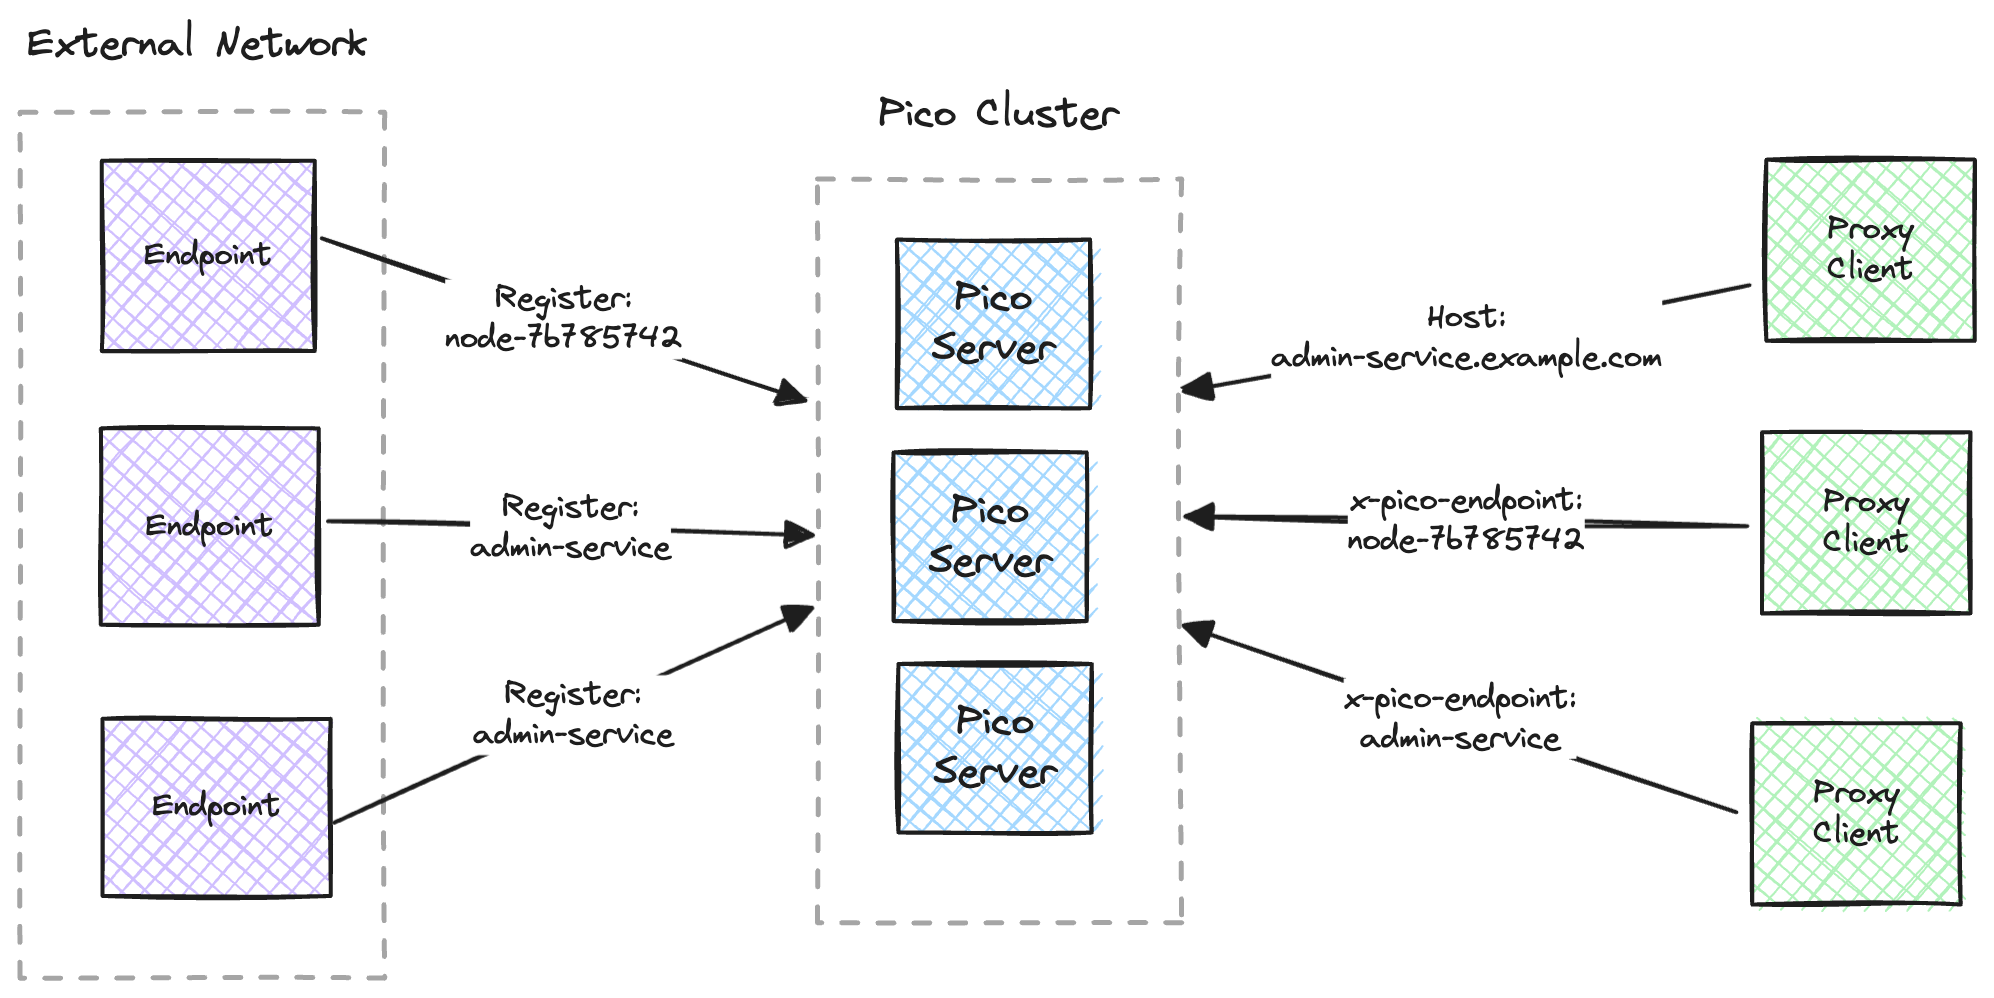
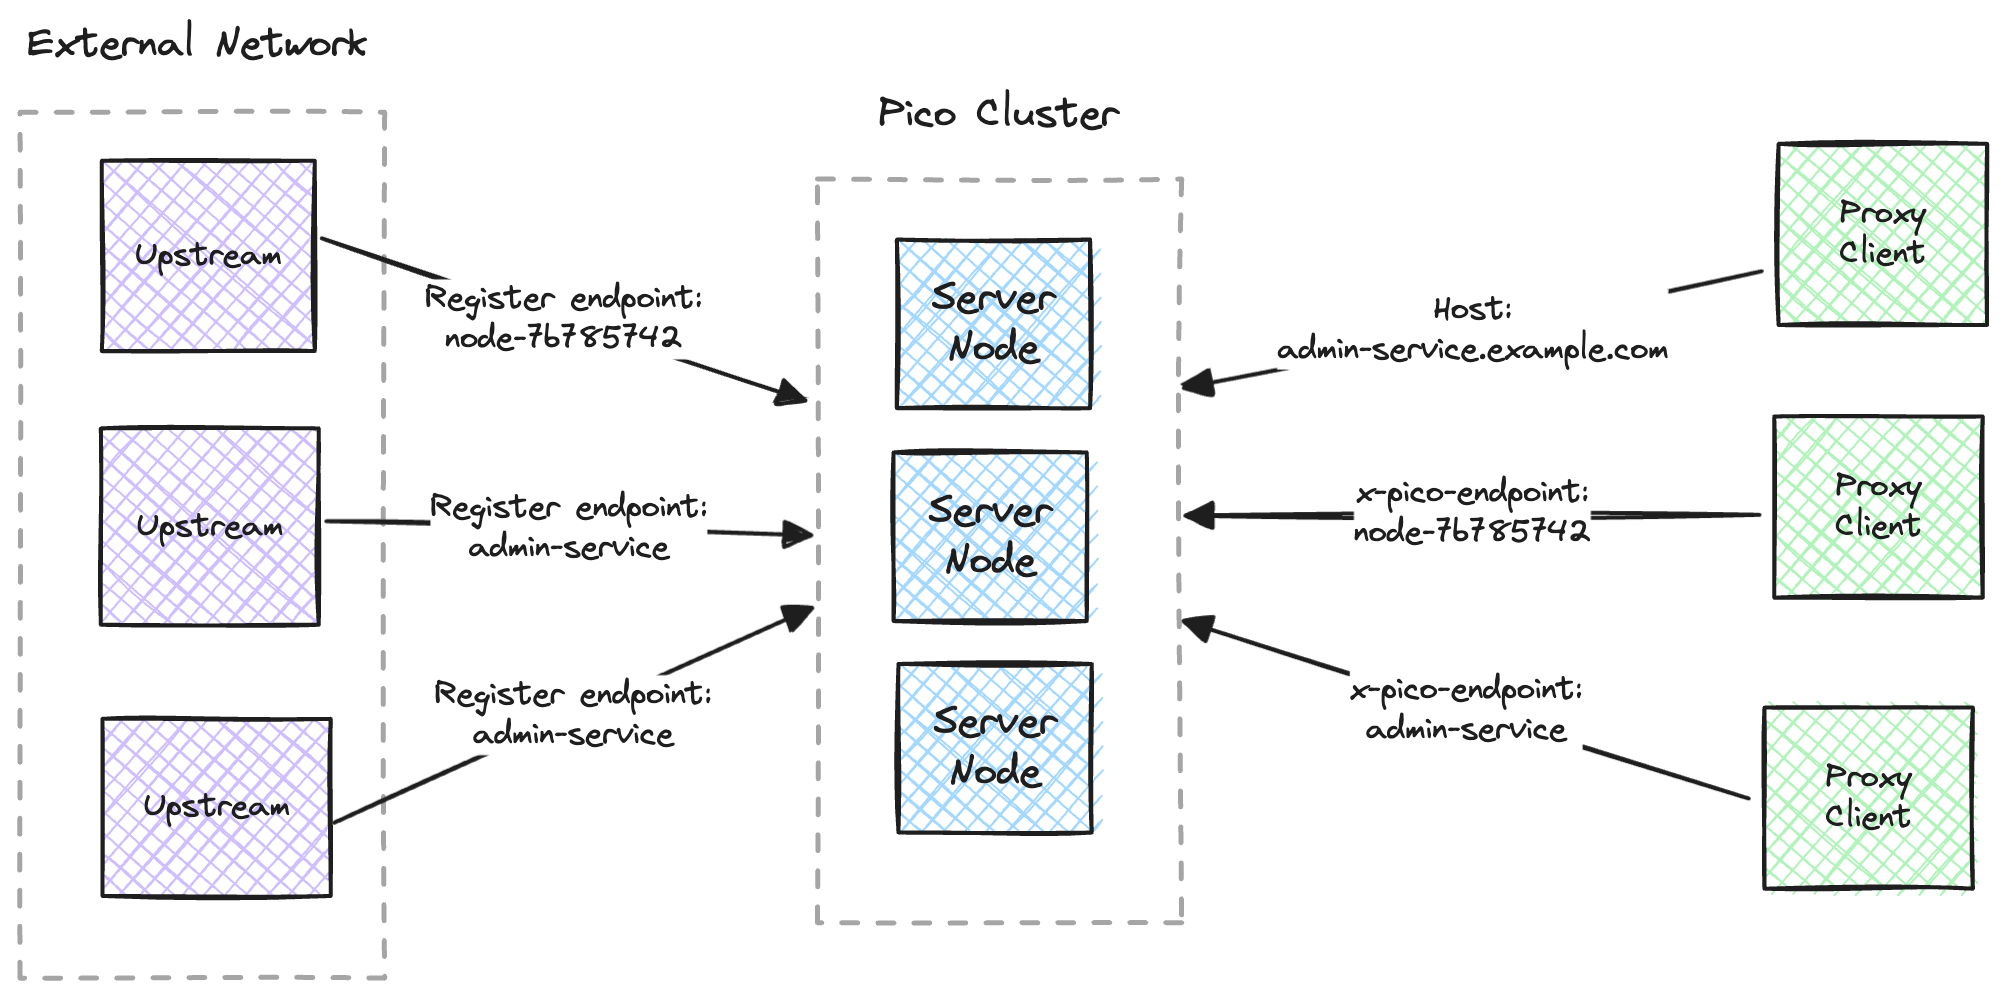
docs: update readme

diff --git a/README.md b/README.md
@@ -1,108 +1,68 @@
 # Pico [![Build](https://github.com/andydunstall/pico/actions/workflows/build.yaml/badge.svg)](https://github.com/andydunstall/pico/actions/workflows/build.yaml)
 
-> :warning: Pico is currently only a proof of concept so is not yet suitable
-for production.
+Pico is an open-source alternative to [Ngrok](https://ngrok.com/), designed to
+serve production traffic and be simple to host (particularly on Kubernetes).
+Such as you may use Pico to expose services in a customer network, a bring your
+own cloud (BYOC) service or to connect to IoT devices.
 
-Pico is a reverse proxy that allows you to expose an endpoint that isn’t
-publicly routable (known as tunnelling).
+The proxy server may be hosted as a cluster of nodes for fault tolerance, scale
+and zero downtime deployments.
 
-Unlike many open-source tunnelling solutions, Pico is designed to serve
-production traffic. Such as you may use Pico to expose services in a customer
-network, a bring your own cloud (BYOC) service or to connect to IoT devices.
+Upstream services connect to Pico and register endpoints. Pico will then route
+requests for an endpoint to a registered upstream service via its outbound-only
+connection. This means you can expose your services without opening a public
+port.
 
-Upstream endpoints register with Pico via an outbound-only connection. Proxy
-clients then send HTTP(S) requests to Pico which will proxy the requests to a
-registered endpoint.
-
-Requests identify the target endpoint ID using either the `Host` header or an
-`x-pico-endpoint` header. When multiple endpoints have the same ID, Pico will
-load balance requests for that ID among the registered endpoints. Therefore an
-endpoint ID is the equivalent of a domain name in Pico.
+Incoming HTTP(S) requests identify the ID of the target endpoint using either
+the `Host` header or an `x-pico-endpoint` header. If multiple upstream services
+have registered the same endpoint, Pico load balances requests for that
+endpoint among the registered upstreams.
 
 ![overview](assets/images/overview.png)
 
 ## Contents
 
 - [Design Goals](#design-goals)
-- [Components](#components)
 - [Getting Started](#getting-started)
 - [Docs](#docs)
 
 ## Design Goals
 
 ### Production Traffic
-Unlike many open-source tunnelling solutions that are built for testing and
-development (such as sharing a demo running on your local machine), Pico is
-built to serve production traffic. Such as you could use Pico to:
+
+Pico is designed to serve production traffic rather than as a tool for testing
+and development. Such as you could use Pico to:
 * Access customer networks
 * Build a bring your own cloud (BYOC) solution
 * Access IoT devices
 
-Therefore Pico supports running as a cluster of server nodes in order to be
-fault tolerant, scale horizontally and support zero downtime deployments. It
-also includes observability tools for monitoring, alerting and debugging.
+To support this, Pico may run as a cluster of nodes in order to be fault
+tolerant, scale horizontally and support zero downtime deployments. It also has
+observability tools for monitoring and debugging.
 
 ### Hosting
-Pico is designed to be simple to host, particularly on Kubernetes. A cluster of
-server nodes can be hosted behind a HTTP load balancer or
-[Kubernetes Gateway](https://kubernetes.io/docs/concepts/services-networking/gateway/)
-as a Kubernetes deployment or stateful set.
 
-Upstream endpoints and proxied requests may be load balanced to any node in the
-cluster, then Pico will manage routing the request to the correct endpoint.
+Pico is built to be simple to host on Kubernetes. A Pico cluster may be hosted
+as a Kubernetes StatefulSet behind a HTTP load balancer or Kubernetes Gateway.
 
-### Dynamic Endpoints
-Upstreams may register any endpoint ID dynamically at runtime without any
-static configuration. If there are multiple registered endpoints for a given
-ID, Pico load balances requests among those endpoints.
+Upstream service connections and proxy client requests may be load balanced to
+any node in the cluster and Pico will manage routing the requests to the
+correct upstream.
 
-## Components
+### Secure
 
-### Server
-The Pico server is responsible for proxying requests from proxy clients to
-registered upstream endpoints.
+Upstream services connect to Pico via an outbound-only connection. Pico will
+then route any requests to the upstream via that connection. Therefore the
+upstream never has to open a port to listen for requests.
 
-Upstream endpoints register with Pico via an outbound-only connection. Clients
-then send HTTP(S) requests to the Pico server, which will proxy the requests to
-a registered endpoint.
+Pico supports authenticating upstream services before they can register
+endpoints.
 
-Incoming requests identify the target endpoint ID using either the `Host`
-header or `x-pico-endpoint` header. When the `Host` header is used, the lowest
-level domain is used as the endpoint ID. Such as if you send a request to
-`my-endpoint.pico.example.com`, `my-endpoint` will be used. `x-pico-endpoint`
-takes precedence over the `Host`.
-
-Pico supports running as a cluster of server nodes. Upstream listeners and
-proxy clients may connect to any node in the cluster and Pico manages
-routing requests to the correct listener.
-
-The server exposes 4 ports:
-* Proxy port: Listens for HTTP(S) requests from proxy clients and forwards
-the requests to upstream listeners (defaults to `8000`)
-* Upstream port: Listens for connections from upstream listeners (defaults to
-`8001`)
-* Admin port: Listens for admin requests to inspect the status of the server
-(defaults to `8002`)
-* Gossip port: Listens for gossip traffic between nodes in the same cluster
-(defaults to `8003`)
-
-The server has separate proxy and upstream ports as upstream listeners and
-proxy clients will be in separate networks (otherwise there isn’t any need
-for Pico). Such as you may expose the upstream port to the Internet for
-external networks to register endpoints, though only allow requests to the
-proxy port from nodes in the same network.
-
-Run a server node with `pico server`.
-
-### Agent
-The Pico agent is a lightweight proxy that runs alongside your upstream
-services that registers endpoints with the Pico server and forwards incoming
-requests.
-
-Such as you run an Pico agent and register endpoint `my-endpoint` that forwards
-requests to `localhost:3000`.
-
-Run the Pico agent with `pico agent`.
+Since Pico can be self-hosted, you can host it in the same network as your
+proxy clients so never accept requests from an external network. Such as you
+may have authenticated upstream services register from the Internet over TLS,
+then only provide an internal route for proxy clients in the same network as
+Pico.
 
 ## Getting Started
 
